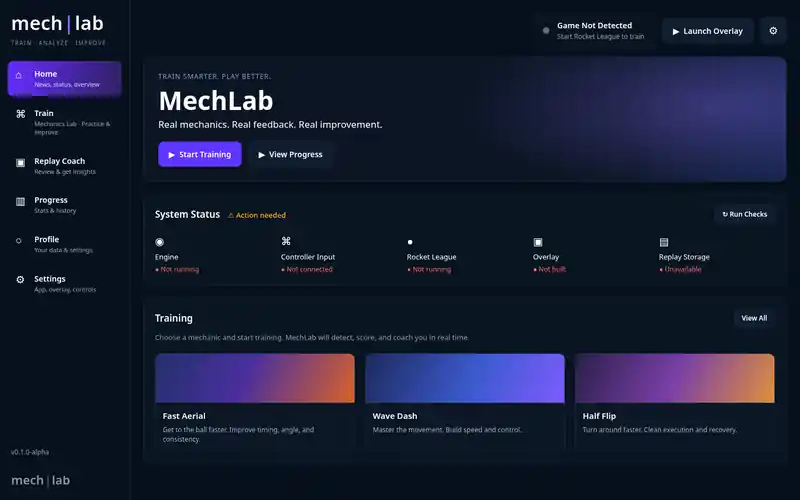
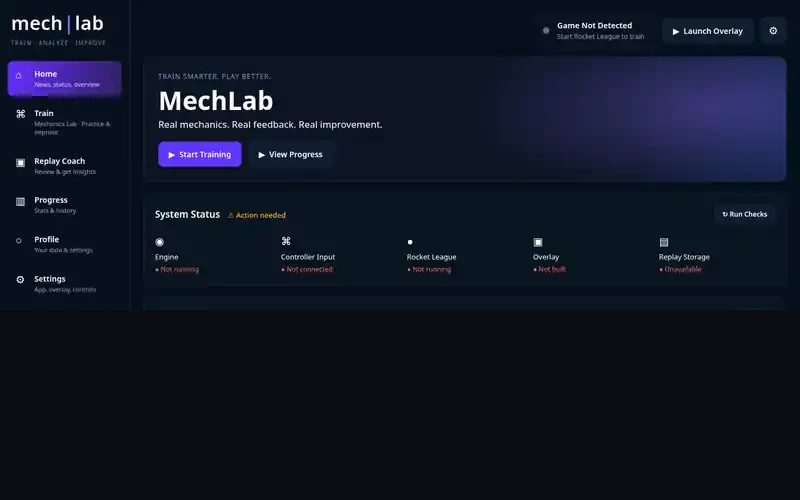
Remove placeholder mechanic labels and clean product screenshots (#19)
Drop GAMEPLAY PLACEHOLDER copy from mechanic media, render mechanics
with real images instead of CSS stand-ins, and crop the Home screenshot
so training-card gradient placeholders no longer appear on the site.

Changed region(s): [[0.1875, 0.63, 0.9688, 0.9], [0.0, 0.9, 0.0938, 0.99], [0.9062, 0.6, 0.9688, 0.66]]

diff --git a/src/MarketingV2.css b/src/MarketingV2.css
@@ -122,15 +122,8 @@
 .v2-mechanic-grid{display:grid;grid-template-columns:repeat(3,1fr);gap:16px}
 .v2-mechanic{border-radius:16px;overflow:hidden;background:rgba(10,20,30,.72);border:1px solid var(--ml-hair);transition:transform .35s ease,border-color .35s ease}
 .v2-mechanic:hover{transform:translateY(-5px);border-color:rgba(46,200,192,.28)}
-.v2-mechanic-art{height:168px;position:relative;overflow:hidden}
-.v2-mechanic-art::before{content:"";position:absolute;inset:0;pointer-events:none}
-.v2-mechanic-art.art-1{background:radial-gradient(circle at 68% 28%,rgba(255,143,90,.45),transparent 28%),linear-gradient(135deg,#13253a 0%,#1a3d4a 48%,#c45a2e 100%)}
-.v2-mechanic-art.art-1::before{background:linear-gradient(28deg,transparent 40%,rgba(110,231,223,.35) 41% 42%,transparent 43%);animation:v2-scan 12s linear infinite}
-.v2-mechanic-art.art-2{background:radial-gradient(circle at 24% 62%,rgba(46,200,192,.35),transparent 26%),linear-gradient(135deg,#102436 0%,#1f4a5c 55%,#2ec8c0 100%)}
-.v2-mechanic-art.art-2::before{background:repeating-linear-gradient(105deg,transparent 0 18px,rgba(255,255,255,.04) 18px 19px);transform:rotate(-8deg) scale(1.4);animation:v2-scan 14s linear infinite}
-.v2-mechanic-art.art-3{background:radial-gradient(circle at 72% 30%,rgba(255,203,114,.28),transparent 24%),linear-gradient(135deg,#1a2038 0%,#3a4568 52%,#d07a3a 100%)}
-.v2-mechanic-art.art-3::before{background:conic-gradient(from 210deg at 50% 55%,transparent 0 70%,rgba(255,255,255,.12) 70% 78%,transparent 78%);animation:v2-spin-slow 16s linear infinite}
-.v2-mechanic-label{position:absolute;left:16px;bottom:14px;z-index:2;font:600 10px 'Geist Mono';letter-spacing:.12em;color:rgba(255,255,255,.86)}
+.v2-mechanic-art{height:168px;position:relative;overflow:hidden;background:#0a1520}
+.v2-mechanic-art img{display:block;width:100%;height:100%;object-fit:cover;object-position:center}
 .v2-mechanic-copy{padding:20px 18px 22px}
 .v2-mechanic-copy h3{font-size:20px;font-weight:600;letter-spacing:-.02em;margin:0 0 8px}
 .v2-mechanic-copy p{font-size:13px;line-height:1.6;color:var(--ml-body);margin:0}

diff --git a/src/App.jsx b/src/App.jsx
@@ -9,9 +9,9 @@ import homeScreen from './assets/mechlab-home.webp'
 import trainScreen from './assets/mechlab-train.webp'
 
 const mechanics = [
-  { name: 'Fast Aerial', description: 'Get to the ball faster. Improve timing, angle, and consistency.', art: 'art-1' },
-  { name: 'Wave Dash', description: 'Master the movement. Build speed and control.', art: 'art-2' },
-  { name: 'Half Flip', description: 'Turn around faster. Clean execution and recovery.', art: 'art-3' },
+  { name: 'Fast Aerial', description: 'Get to the ball faster. Improve timing, angle, and consistency.', image: '/mechanics/fast-aerial.svg' },
+  { name: 'Wave Dash', description: 'Master the movement. Build speed and control.', image: '/mechanics/wave-dash.svg' },
+  { name: 'Half Flip', description: 'Turn around faster. Clean execution and recovery.', image: '/mechanics/half-flip.svg' },
 ]
 
 const current = [
@@ -178,8 +178,8 @@ function App() {
           <div className="v2-mechanic-grid">
             {mechanics.map((m) => (
               <article className="v2-mechanic" key={m.name}>
-                <div className={`v2-mechanic-art ${m.art}`} role="img" aria-label={`${m.name} visual`}>
-                  <span className="v2-mechanic-label">{m.name}</span>
+                <div className="v2-mechanic-art">
+                  <img src={m.image} alt={`${m.name} training visual`} loading="lazy" />
                 </div>
                 <div className="v2-mechanic-copy">
                   <h3>{m.name}</h3>
